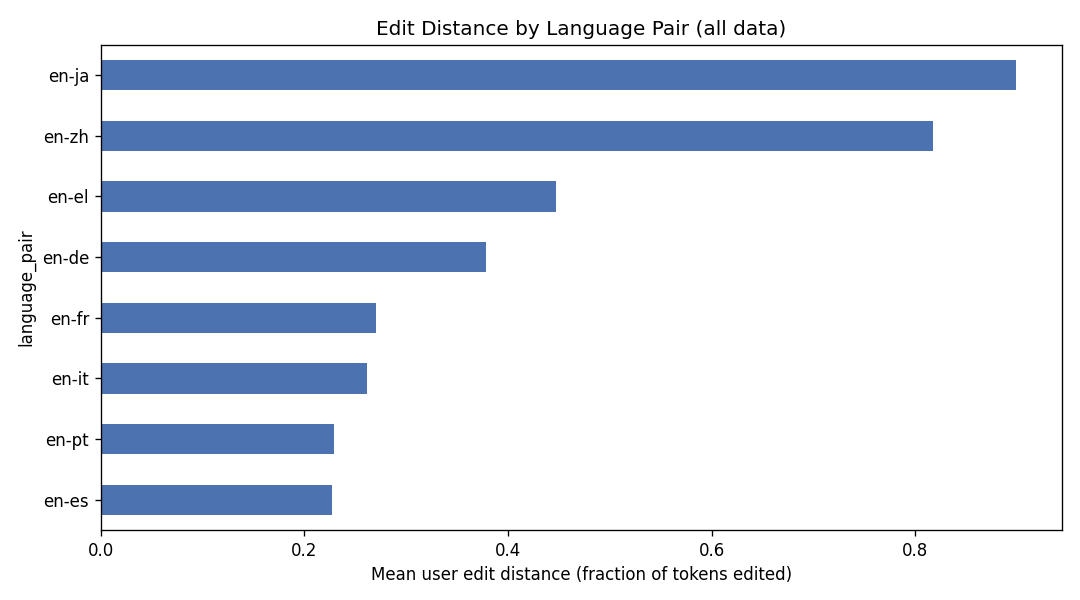
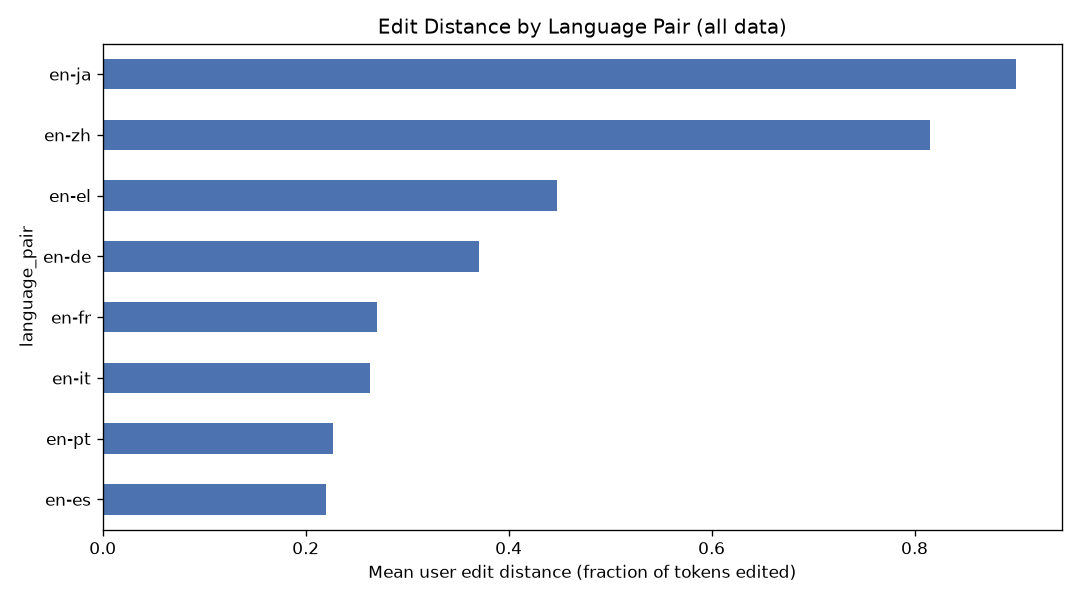
Store raw Wikimedia API responses in MongoDB before flattening to Postgres; document new dataset dimensions in README

diff --git a/data_pipeline/extract_pageviews.py b/data_pipeline/extract_pageviews.py
@@ -19,7 +19,8 @@ import os
 import time
 import requests
 import pandas as pd
-from datetime import datetime, timedelta
+from mongo_raw_store import store_raw_response
+from datetime import datetime, timedelta, timezone
 
 # Wikimedia requires a descriptive User-Agent identifying the client.
 HEADERS = {
@@ -52,18 +53,28 @@ ARTICLES = {
 }
 
 
-def fetch_pageviews(project: str, article: str, start: str, end: str) -> list[dict]:
+def fetch_pageviews(project: str, article: str, start: str, end: str, topic: str = "") -> list[dict]:
     url = BASE_URL.format(project=project, article=article, start=start, end=end)
     resp = requests.get(url, headers=HEADERS, timeout=30)
     if resp.status_code == 404:
         # Article/edition combination has no data for the range — skip, don't crash.
         return []
+    if resp.status_code == 429:
+        # Rate limited -- back off, wait longer, and skip this one call rather
+        # than crashing the whole run. A real production version would retry
+        # with backoff; for this portfolio run, skipping is enough to show
+        # the pipeline handles it gracefully instead of dying.
+        print(f"  [rate limit] 429 for {project}/{article} -- backing off 10s and skipping this call.")
+        time.sleep(10)
+        return []
     resp.raise_for_status()
-    return resp.json().get("items", [])
+    payload = resp.json()
+    store_raw_response(topic, project, article, start, end, payload)
+    return payload.get("items", [])
 
 
 def run(days_back: int = 30) -> pd.DataFrame:
-    end_date = datetime.utcnow().date() - timedelta(days=1)  # API lags ~1 day
+    end_date = datetime.now(timezone.utc).date() - timedelta(days=1)  # API lags ~1 day
     start_date = end_date - timedelta(days=days_back)
     start_str = start_date.strftime("%Y%m%d")
     end_str = end_date.strftime("%Y%m%d")
@@ -71,7 +82,7 @@ def run(days_back: int = 30) -> pd.DataFrame:
     rows = []
     for topic, editions in ARTICLES.items():
         for project, article in editions.items():
-            items = fetch_pageviews(project, article, start_str, end_str)
+            items = fetch_pageviews(project, article, start_str, end_str, topic=topic)
             for item in items:
                 rows.append(
                     {
@@ -82,7 +93,7 @@ def run(days_back: int = 30) -> pd.DataFrame:
                         "views": item["views"],
                     }
                 )
-            time.sleep(1.0)  # polite pacing, well under Wikimedia's rate limits
+            time.sleep(2.0)  # polite pacing, well under Wikimedia's rate limits
 
     df = pd.DataFrame(rows)
     return df

diff --git a/data_pipeline/mongo_raw_store.py b/data_pipeline/mongo_raw_store.py
@@ -1,0 +1,60 @@
+"""
+mongo_raw_store.py
+
+Stores the raw, unflattened JSON response from each Wikimedia API call into
+MongoDB Atlas -- this is the genuine NoSQL step in the pipeline: raw,
+semi-structured API responses land here first, and only the cleaned,
+flattened rows go on to Postgres (via load_to_supabase.py).
+
+Reuses the same MONGO_URI used by the standalone connectivity test in
+../mongodb/mongo_client.py.
+"""
+
+import os
+from datetime import datetime, timezone
+
+from pymongo import MongoClient
+from dotenv import load_dotenv
+
+load_dotenv()
+
+_client = None
+_collection = None
+
+
+def _get_collection():
+    global _client, _collection
+    if _collection is not None:
+        return _collection
+
+    uri = os.getenv("MONGO_URI")
+    if not uri:
+        raise RuntimeError(
+            "MONGO_URI not found in environment. Add it to data_pipeline/.env "
+            "(same value as in mongodb/.env)."
+        )
+    _client = MongoClient(uri)
+    db = _client["translation_pipeline"]
+    _collection = db["raw_pageview_responses"]
+    return _collection
+
+
+def store_raw_response(topic: str, project: str, article: str, start: str, end: str, payload: dict) -> None:
+    """Insert one raw API response document. Never raises -- a storage
+    hiccup here should not break the extract run; it just means this one
+    response wasn't archived."""
+    try:
+        collection = _get_collection()
+        collection.insert_one(
+            {
+                "topic": topic,
+                "project": project,
+                "article": article,
+                "range_start": start,
+                "range_end": end,
+                "fetched_at": datetime.now(timezone.utc),
+                "raw_response": payload,
+            }
+        )
+    except Exception as e:
+        print(f"  [mongo] warning: could not store raw response for {topic}/{project}: {e}")

diff --git a/translation_quality/README.md b/translation_quality/README.md
@@ -17,7 +17,7 @@ No setup required. Generate the synthetic dataset, step through Hypotheses A, B,
 
 ## What this module does
 
-* **`generate_translation_data.py`** — builds a synthetic-but-realistic dataset of ~4,000 translation events over 90 days: language pair, content type, sentence length, model version (v1 → v2 rollout at day 45), user edit distance, latency, and quality score. The generator deliberately embeds a root cause (see below) rather than pure random noise, so the investigation script has something real to uncover.
+* **`generate_translation_data.py`** — builds a synthetic-but-realistic dataset of ~4,000 translation events over 90 days: language pair, content type, sentence length, model version (v1 → v2 rollout at day 45), AI model provider, customer tier, traffic volume, user edit distance, latency, and quality score. The generator deliberately embeds a root cause (see below) rather than pure random noise, so the investigation script has something real to uncover. The provider/customer-tier/traffic-volume fields exist specifically to support comparisons "across language pairs, AI models, providers, customers, [and] traffic levels" as the job posting describes, beyond the core hypothesis-driven investigation below.
 * **`analyze_edit_drift.py`** — the investigation itself, run as a sequence of hypotheses:
   1. **Surface the pattern** — mean edit distance by language pair.
   2. **Hypothesis A (content-type mix)** — re-weight each language pair to a common content-type distribution. Ruled out: the gap barely narrows.
